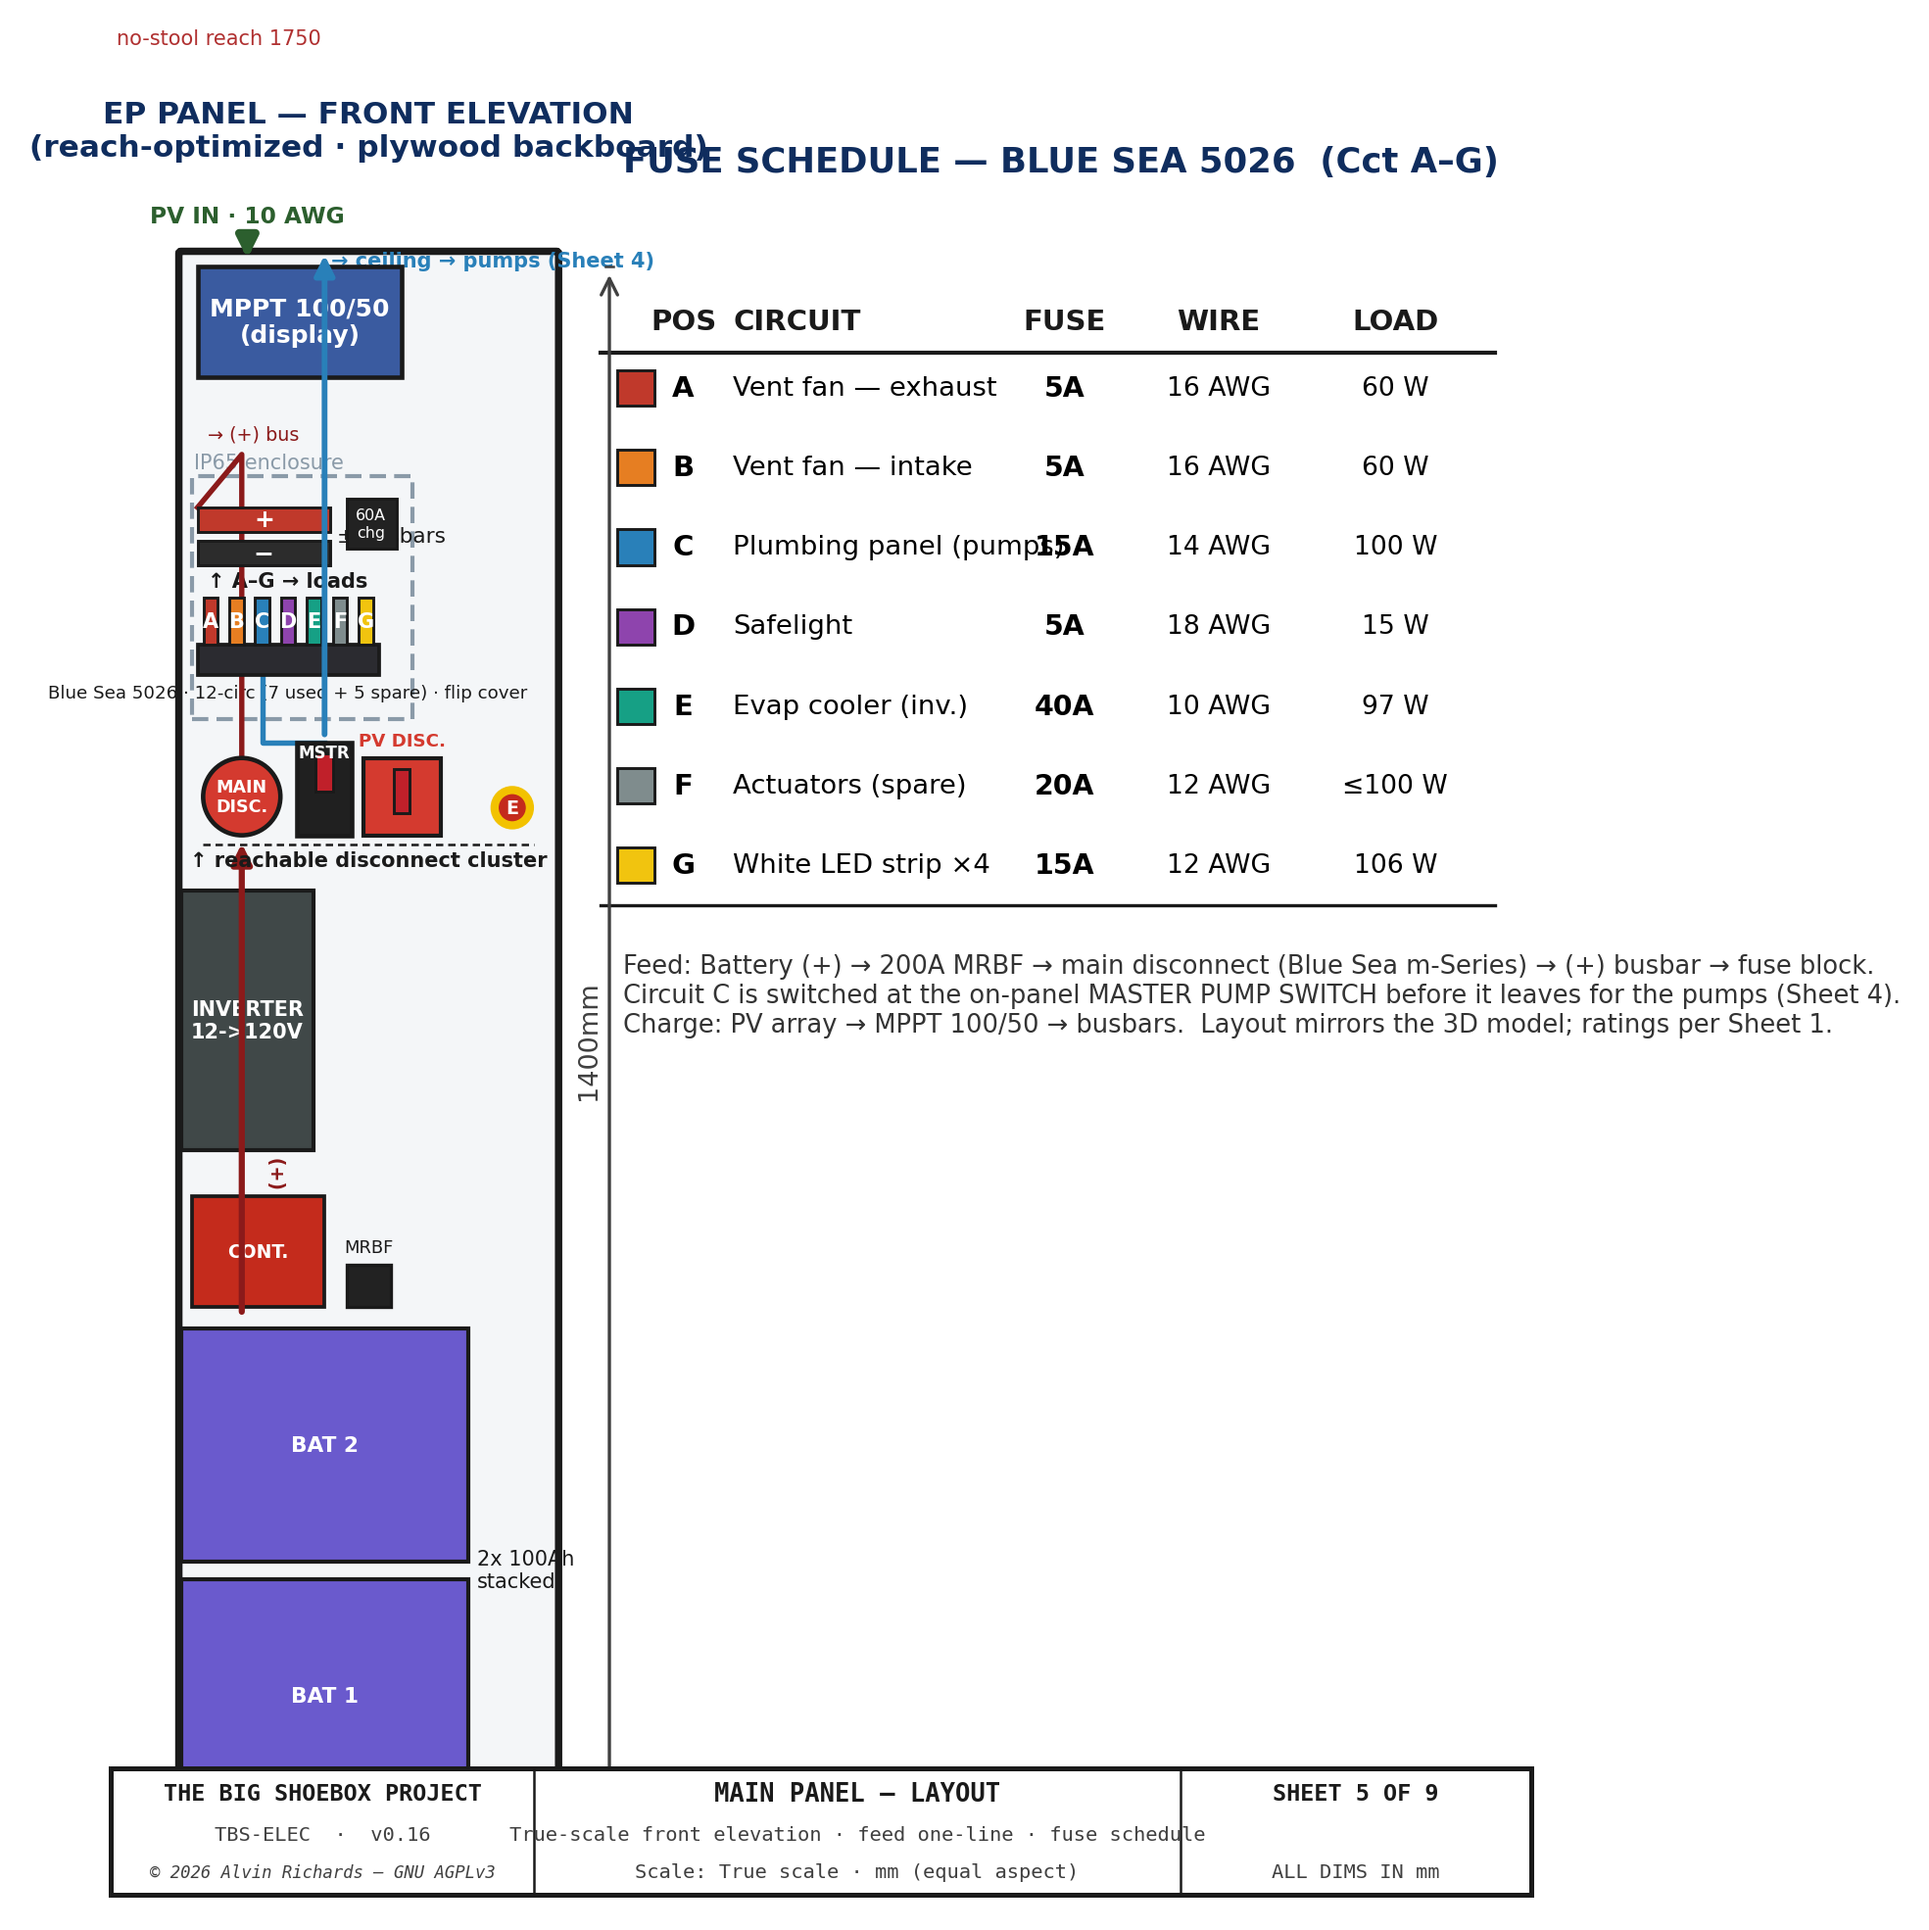
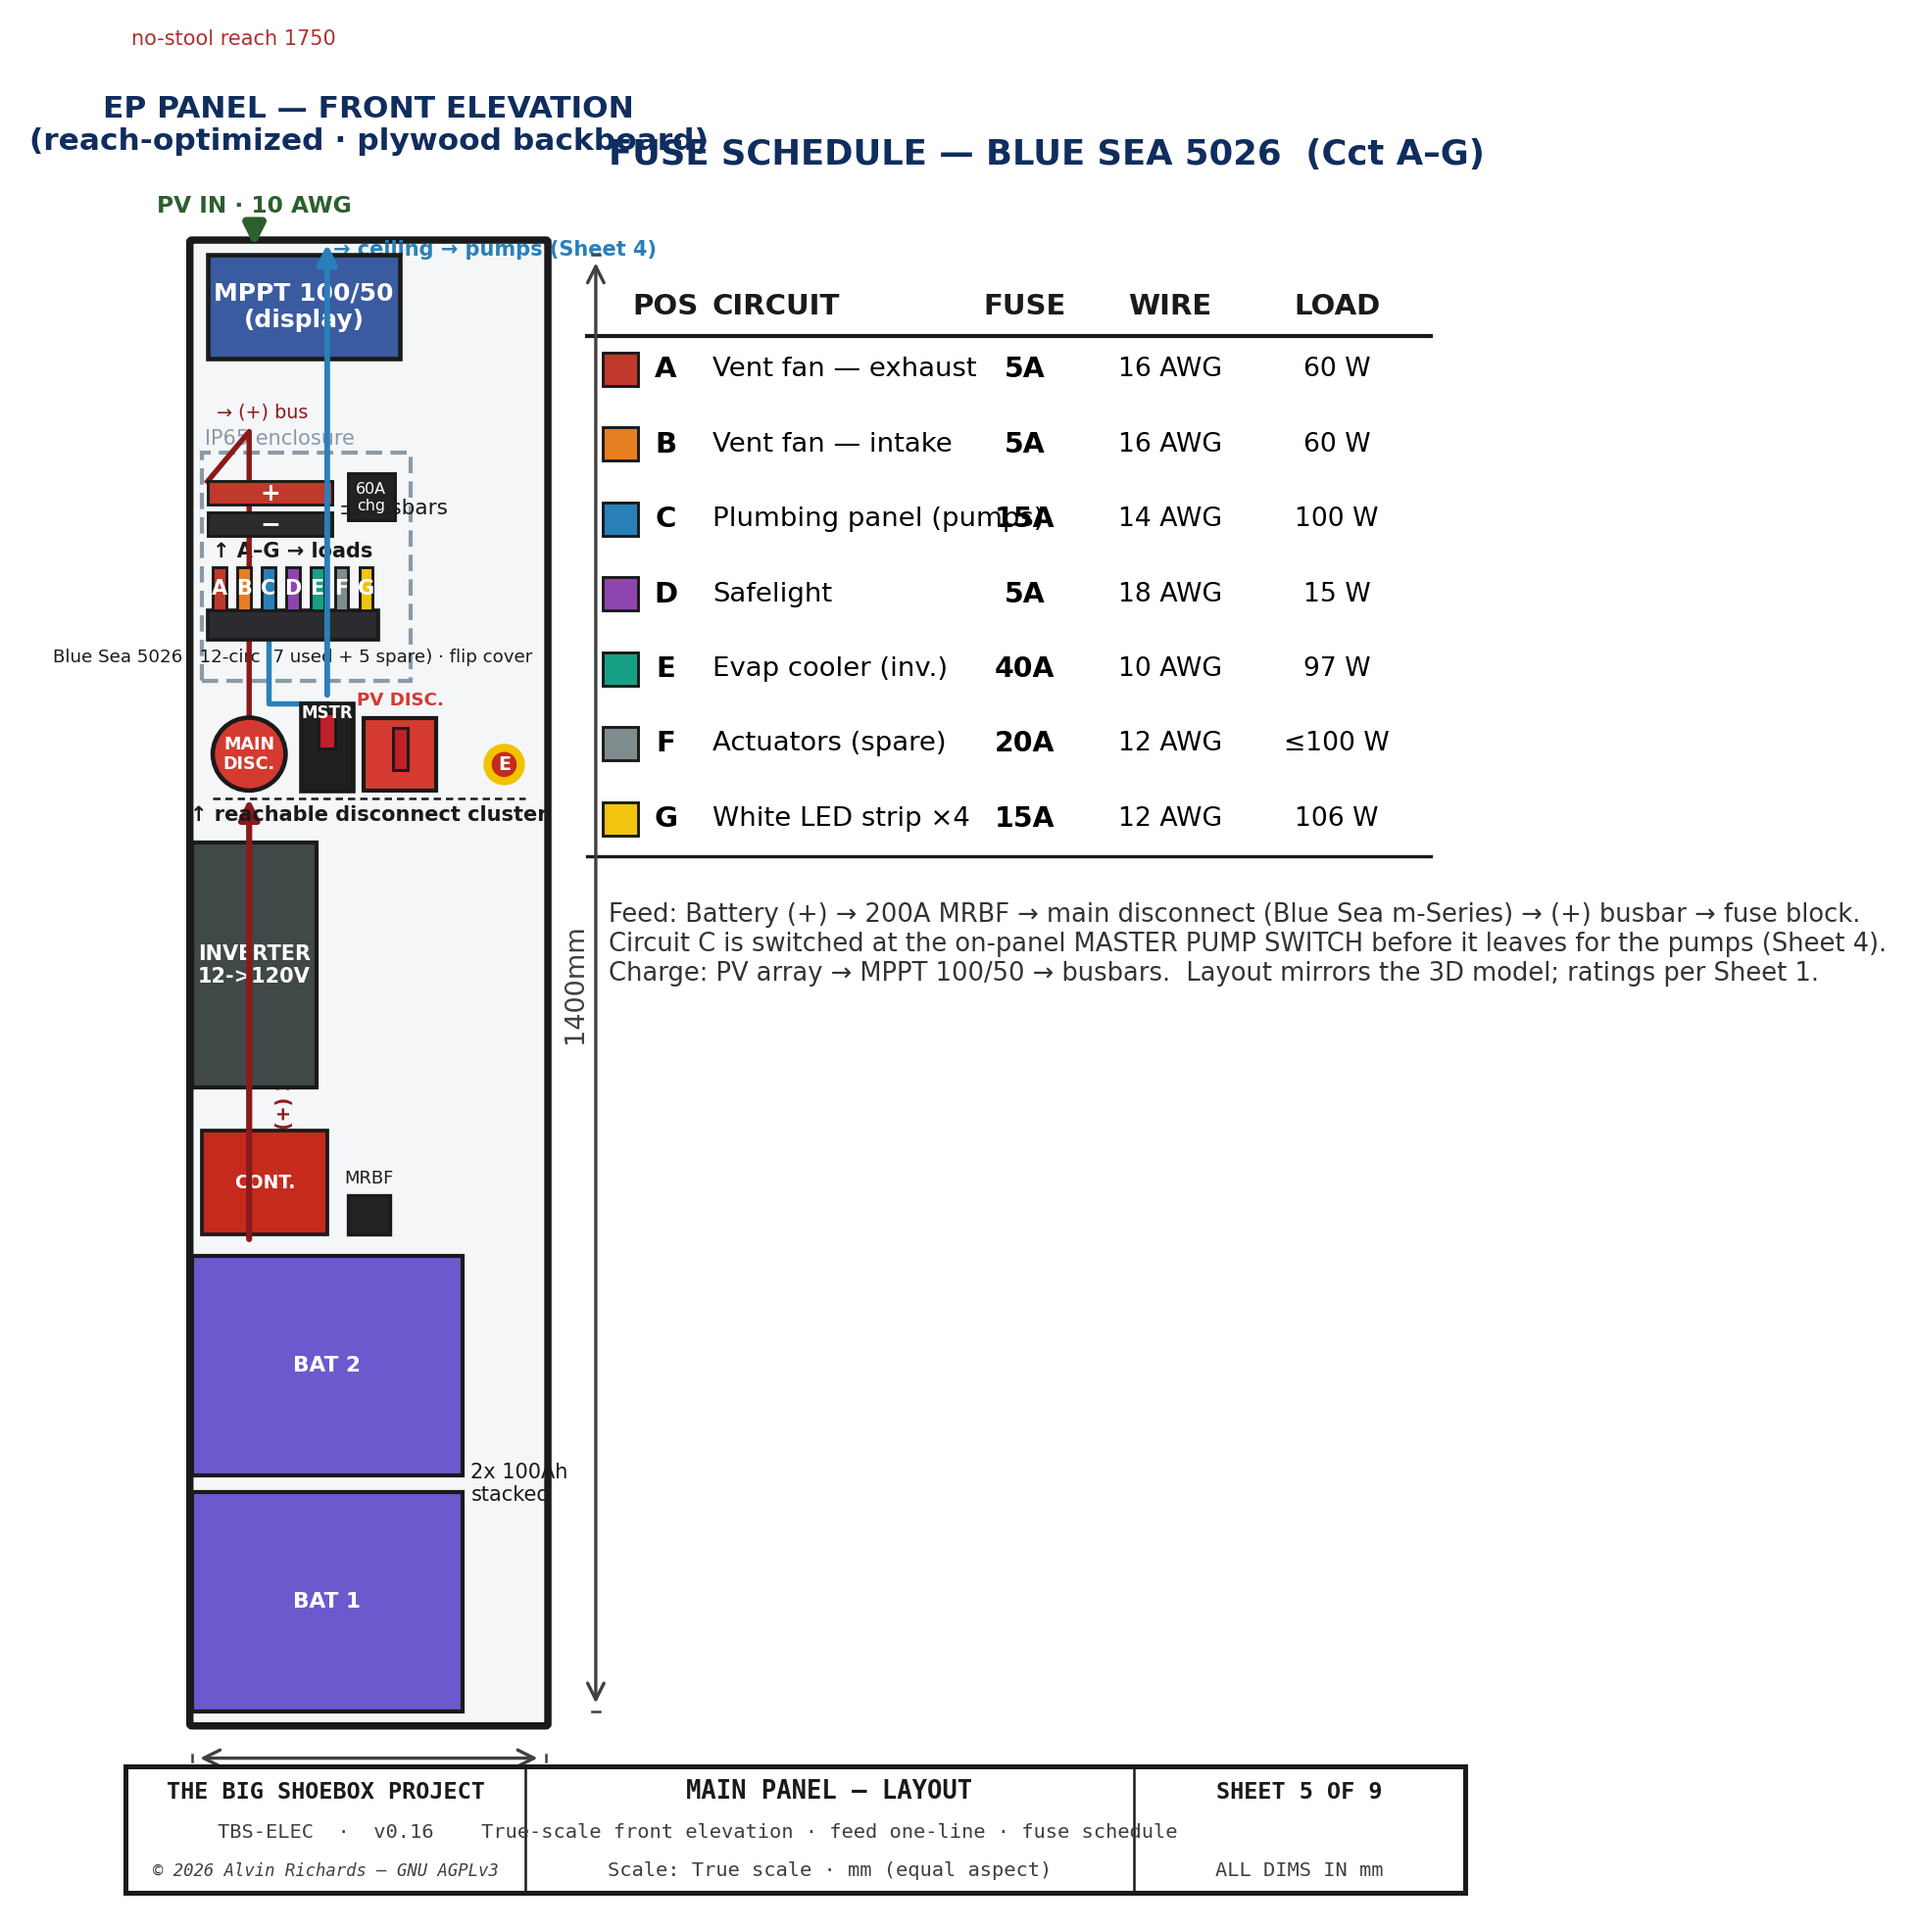
electrical Sheet 5: drop ylim floor so the title block clears the panel
The true-scale panel elevation (BAT 1 bottoms at BA_H_LO=160, outline at 148)
ran into the title block (bottom 7% of ylim 80-1720 = y 80-195). Lower the
ylim floor to -20 so the title block sits in clear space below the panel.

Changed region(s): [[0.0, 0.0, 0.9678, 0.9919], [0.6244, 0.8989, 0.7492, 0.9299], [0.6556, 0.9609, 0.718, 0.9919]]

diff --git a/src/generators/generate_electrical_diagram.py b/src/generators/generate_electrical_diagram.py
@@ -1676,7 +1676,7 @@ def draw_sheet5():
             ha="left", va="top", fontsize=6.2, color="#333")
 
     ax.set_xlim(-70, 1230)
-    ax.set_ylim(80, 1720)
+    ax.set_ylim(-20, 1720)   # headroom below the panel (bottom at BA_H_LO-12=148) for the title block
 
     title_block(ax, "SHEET 5 OF 9",
                 drawing_title="MAIN PANEL — LAYOUT",
